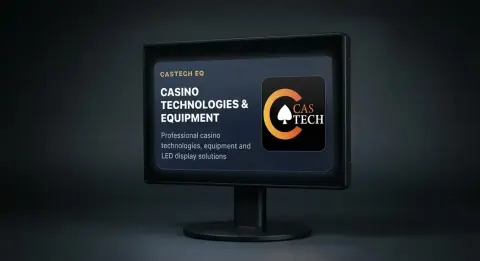
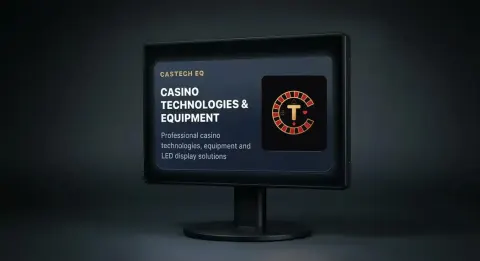
Home: show all ten departments, same order as the catalogue (#6)
- Add Table Layouts and Table Signs to the home grid (EN/DE/CS/RU); 5 columns on desktop
- Card numbers padded correctly (10 instead of 010)
- Table-sign photo shows the new CasTech EQ logo instead of the old one
- Layout photo cropped to the cloth; chip cover cut out from its white sheet

Claude-Session: https://claude.ai/code/session_0133G4p4xqHokQ2FqvFJKdws

Changed region(s): [[0.5312, 0.2759, 0.6875, 0.5517]]

diff --git a/src/components/HomeLanding.tsx b/src/components/HomeLanding.tsx
@@ -3,7 +3,8 @@ import { catalogueCategories } from "@/content/catalogueData";
 import { href, type Locale } from "@/lib/i18n";
 import { srcSetFor } from "@/lib/srcset";
 
-const focus = ["led", "machines", "tables", "chairs", "shufflers", "chips", "cards", "accessories"];
+// Same ten departments, in the same order, as the catalogue page.
+const focus = ["led", "machines", "tables", "chairs", "cards", "chips", "shufflers", "layouts", "table-signs", "accessories"];
 
 const linkCls = "text-gold underline-offset-4 hover:underline";
 type LK = (path: string, label: string) => React.ReactNode;
@@ -137,14 +138,16 @@ const CATEGORY_PATHS: Record<string, string> = {
   shufflers: "/live-games#blackjack",
   chips: "/live-games#chips",
   cards: "/live-games#cards",
+  layouts: "/live-games",
+  "table-signs": "/table-signs",
   accessories: "/accessories",
 };
 
 /** Category titles for the home grid outside English (English uses the catalogue titles). */
 const CATEGORY_TITLES: Record<"de" | "cs" | "ru", Record<string, string>> = {
-  de: { led: "LED-Jackpot-Bildschirme", machines: "Spielautomaten", tables: "Spieltische", chairs: "Casino-Stühle", shufflers: "Shuffler", chips: "Casino-Chips", cards: "Spielkarten", accessories: "Zubehör" },
-  cs: { led: "LED jackpotové obrazovky", machines: "Výherní automaty", tables: "Herní stoly", chairs: "Kasinové židle", shufflers: "Míchačky karet", chips: "Kasinové žetony", cards: "Hrací karty", accessories: "Příslušenství" },
-  ru: { led: "LED-табло джекпота", machines: "Игровые автоматы", tables: "Игровые столы", chairs: "Кресла для казино", shufflers: "Шафлеры", chips: "Фишки для казино", cards: "Игральные карты", accessories: "Аксессуары" },
+  de: { led: "LED-Jackpot-Bildschirme", machines: "Spielautomaten", tables: "Spieltische", chairs: "Casino-Stühle", shufflers: "Shuffler", chips: "Casino-Chips", cards: "Spielkarten", layouts: "Tischtücher", "table-signs": "Tischanzeigen", accessories: "Zubehör" },
+  cs: { led: "LED jackpotové obrazovky", machines: "Výherní automaty", tables: "Herní stoly", chairs: "Kasinové židle", shufflers: "Míchačky karet", chips: "Kasinové žetony", cards: "Hrací karty", layouts: "Herní sukna", "table-signs": "Stolní displeje", accessories: "Příslušenství" },
+  ru: { led: "LED-табло джекпота", machines: "Игровые автоматы", tables: "Игровые столы", chairs: "Кресла для казино", shufflers: "Шафлеры", chips: "Фишки для казино", cards: "Игральные карты", layouts: "Сукно для столов", "table-signs": "Табло для столов", accessories: "Аксессуары" },
 };
 
 export function HomeLanding({ locale = "en" }: { locale?: Locale }) {
@@ -219,16 +222,16 @@ export function HomeLanding({ locale = "en" }: { locale?: Locale }) {
             {t.allCategories}
           </Link>
         </div>
-        <div className="mt-12 grid grid-cols-2 gap-3 sm:gap-4 lg:grid-cols-4">
+        <div className="mt-12 grid grid-cols-2 gap-3 sm:gap-4 lg:grid-cols-5">
           {lead.map((c, i) => (
             <Link key={c.slug} href={c.href} className="group flex flex-col overflow-hidden border border-white/10 bg-surface transition hover:border-gold/60">
               <div className="relative aspect-[16/10] overflow-hidden bg-surface-media">
                 {/* eslint-disable-next-line @next/next/no-img-element */}
-                <img src={c.cover} srcSet={srcSetFor(c.cover)} sizes="(min-width:1024px) 290px, 50vw" alt={c.title} loading="lazy" decoding="async" className="absolute inset-0 h-full w-full object-contain p-2 transition group-hover:scale-[1.03]" />
+                <img src={c.cover} srcSet={srcSetFor(c.cover)} sizes="(min-width:1024px) 230px, 50vw" alt={c.title} loading="lazy" decoding="async" className="absolute inset-0 h-full w-full object-contain p-2 transition group-hover:scale-[1.03]" />
               </div>
               <div className="flex items-start justify-between gap-2 p-4 sm:items-center sm:p-7">
                 <div>
-                  <span className="text-[11px] tracking-[.15em] text-gold">0{i + 1}<span className="hidden sm:inline"> / {t.collection}</span></span>
+                  <span className="text-[11px] tracking-[.15em] text-gold">{String(i + 1).padStart(2, "0")}<span className="hidden sm:inline"> / {t.collection}</span></span>
                   <h3 className="mt-2 font-heading text-[17px] font-semibold leading-snug tracking-[-.03em] text-white sm:text-[22px]">{c.title}</h3>
                 </div>
                 <span aria-hidden="true" className="text-lg text-gold sm:text-xl">↗</span>

diff --git a/src/content/catalogueData.ts b/src/content/catalogueData.ts
@@ -255,7 +255,7 @@ export const catalogueCategories:CatalogueCategory[]=[
  {
   "slug": "chips",
   "title": "Casino Chips",
-  "cover": "/images/catalog/chips/01-yellow-1-000-plaque-chip.webp",
+  "cover": "/images/catalog/covers/casino-chips.webp",
   "items": [
    {
     "title": "Yellow 1,000 Plaque Chip",
